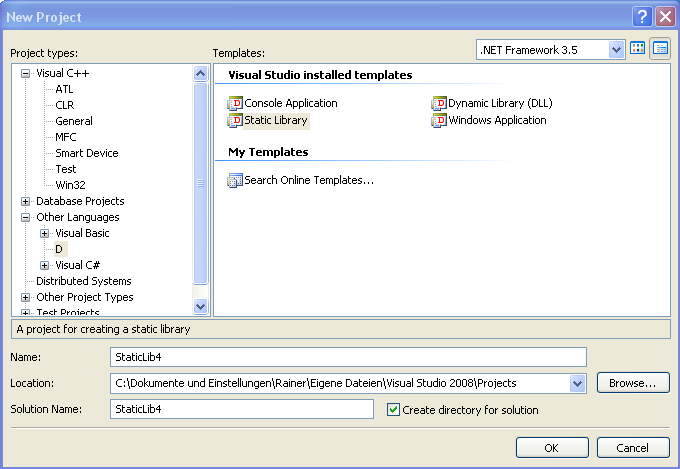
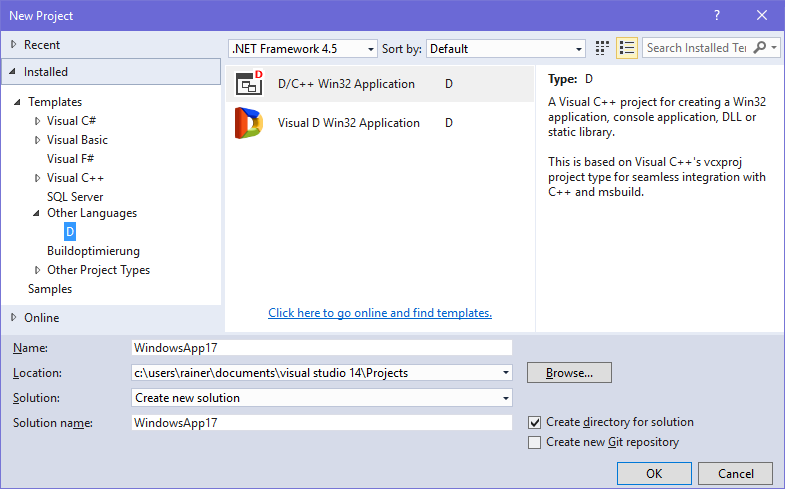
bump version to 0.47.0 fix description text in ProjectWizard update docs

diff --git a/vdwizard/WizardDialog.Designer.cs b/vdwizard/WizardDialog.Designer.cs
@@ -354,8 +354,6 @@
         private System.Windows.Forms.Panel panel1;
         private System.Windows.Forms.Label label1;
         private System.Windows.Forms.GroupBox groupBox1;
-        private System.Windows.Forms.Label label3;
-        private System.Windows.Forms.Label label2;
         private System.Windows.Forms.GroupBox groupBox2;
         private System.Windows.Forms.Button button1;
         private System.Windows.Forms.Button button2;
@@ -375,5 +373,7 @@
         public System.Windows.Forms.CheckBox platformx86OMF;
         private System.Windows.Forms.Label Warning1;
         private System.Windows.Forms.Label Warning2;
+        public System.Windows.Forms.Label label2;
+        public System.Windows.Forms.Label label3;
     }
 }

diff --git a/vdwizard/VDProjectWizard.cs b/vdwizard/VDProjectWizard.cs
@@ -131,6 +131,8 @@ namespace VisualDWizard
         public override void beforeOpenDialog()
         {
             dlg.pictureBox1.Image = new Bitmap(VisualDWizard.Properties.Resources.vd_logo);
+            dlg.label2.Text = "This project will use Visual D\'s custom project type designed";
+            dlg.label3.Text = "for the D programming language.";
         }
     }
 
